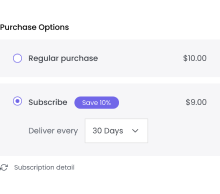
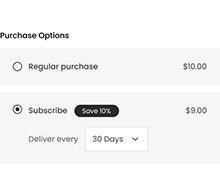
15june 49

diff --git a/extensions/easy-subscription-widget/assets/easywidget.css b/extensions/easy-subscription-widget/assets/easywidget.css
@@ -357,7 +357,7 @@
   }
   .easysubwidgetbox.styletwo .easysubwidgetboxselectionoptions .easysubwidgetboxselectionoption.checked{
     border-color: #2D292A;
-    background-color: #b9b9b9;
+    background-color: #E3E3E3;
   }
   .easysubwidgetbox.stylefour .easysubwidgetboxselectionoptions .easysubwidgetboxselectionoption {
       padding: 15px;
@@ -385,14 +385,14 @@
   }
   .easysubwidgetbox.stylethree.stylefour .easysubwidgetboxselectionoptions .easysubwidgetboxselectionoptionplansselectlist input:checked+label.easysubwidgetboxselectionoptionlabel {
      border-color: #2D292A;
-     background-color: #b9b9b9;
+     background-color: #E3E3E3;
   }
   .easysubwidgetbox.styletwo.stylefive .easysubwidgetboxselectionoptions .easysubwidgetboxselectionoption {
       background-color: #fff;
       padding: 15px;
   }
   .easysubwidgetbox.styletwo.stylefive .easysubwidgetboxselectionoptions .easysubwidgetboxselectionoption.checked {
-      background-color: #b9b9b9;
+      background-color: #E3E3E3;
   }
   .easysubwidgetbox.stylethree.stylefive .easysubwidgetboxselectionoptions ul.easysubwidgetboxselectionoptionplansselectlist li {
       max-width: 130px;

diff --git a/web/frontend/assets/default.css b/web/frontend/assets/default.css
@@ -87,7 +87,7 @@
 :root {
     --primary-color: #2D292A;
     --primary-color-2: #EB8081;
-    --secondary-color: #b9b9b9;
+    --secondary-color: #E3E3E3;
     --heading-color:#3F434A;
     --text-color: #595F69;
     --text-light-color: #8A9099;
